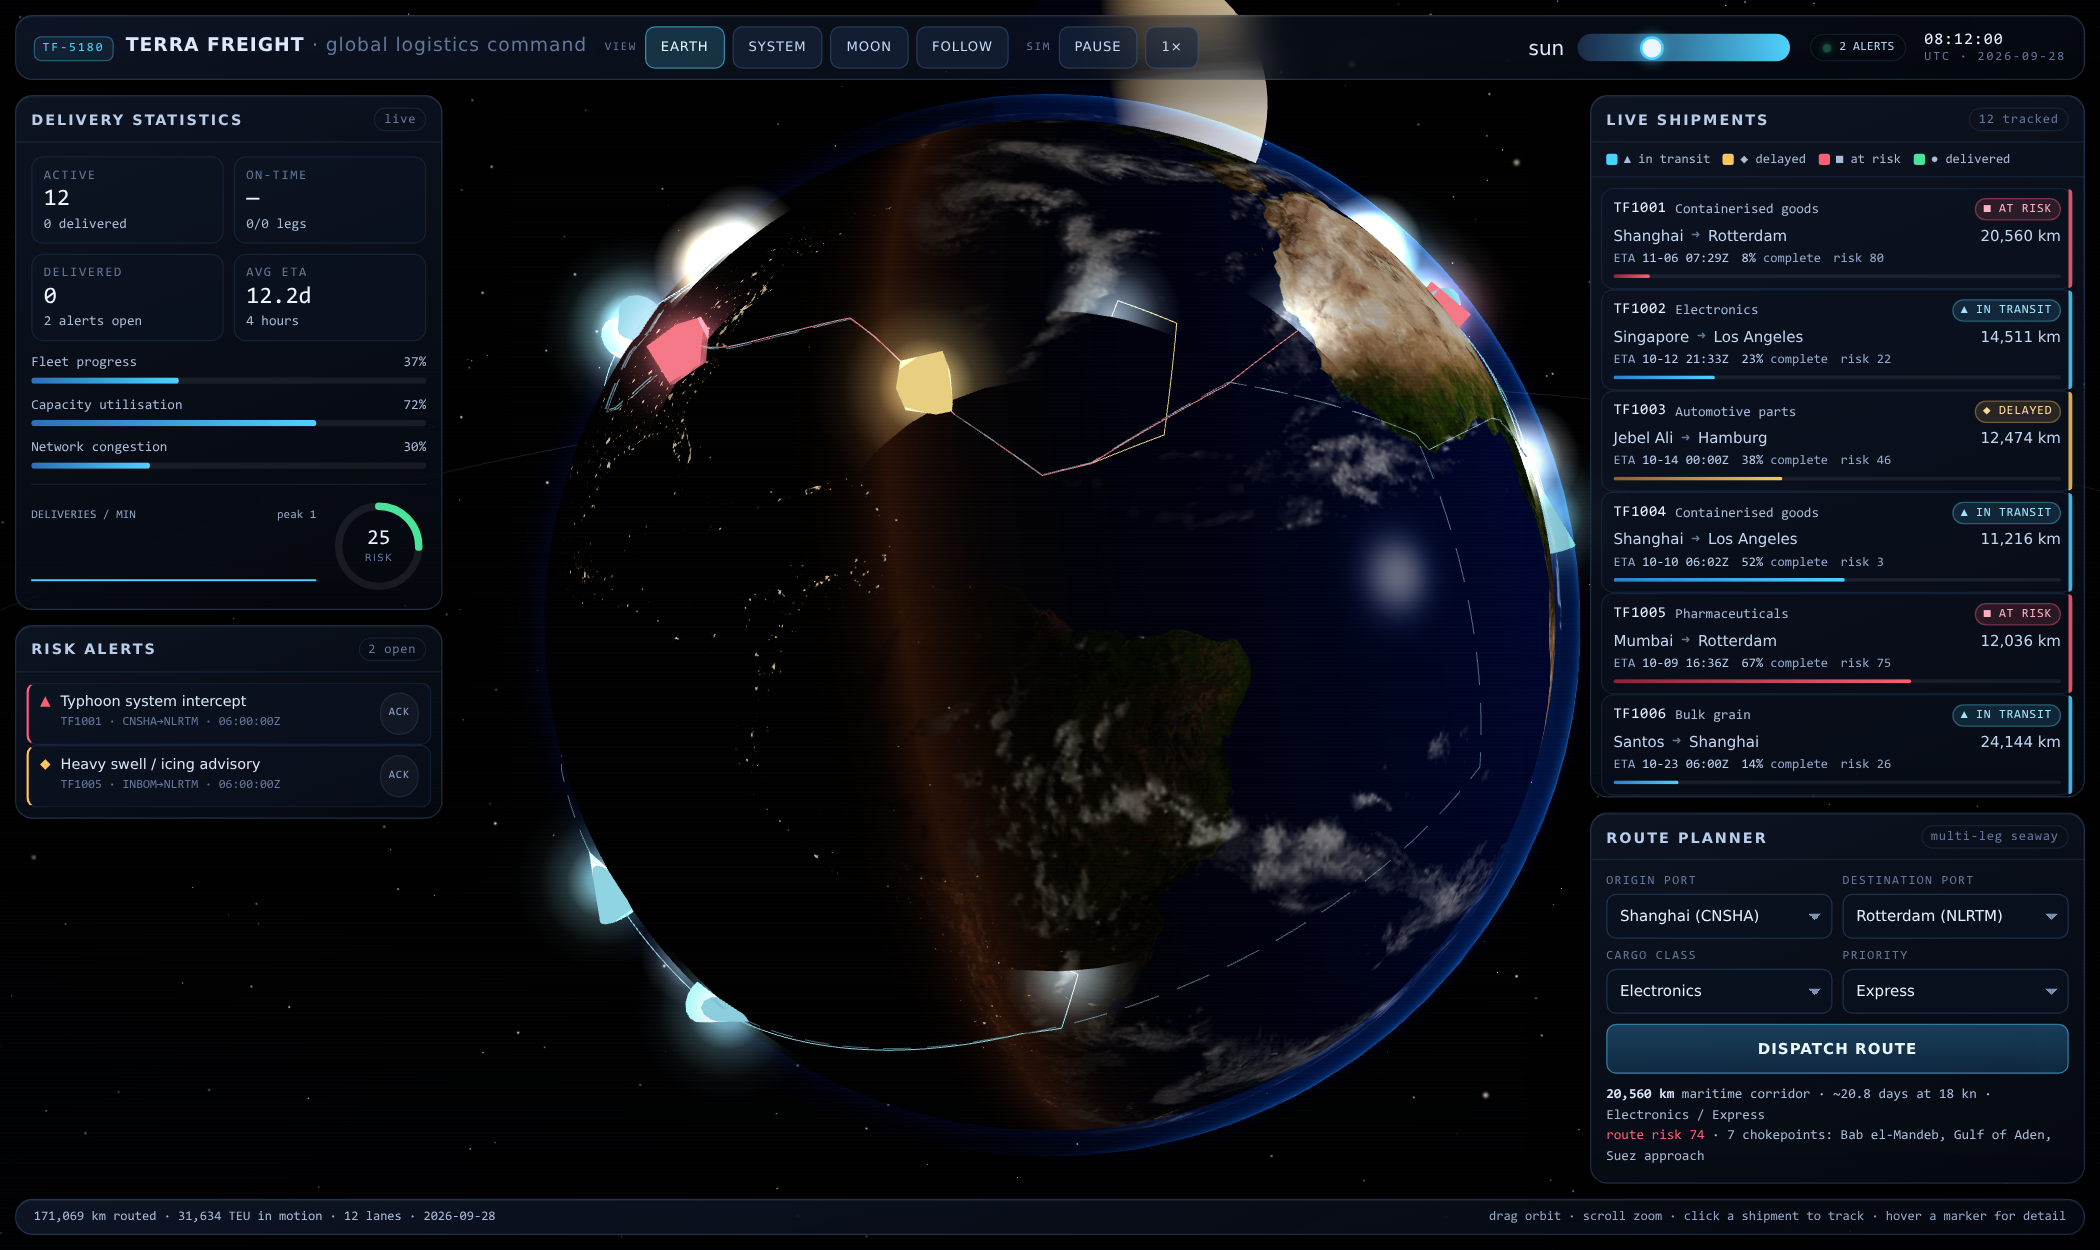
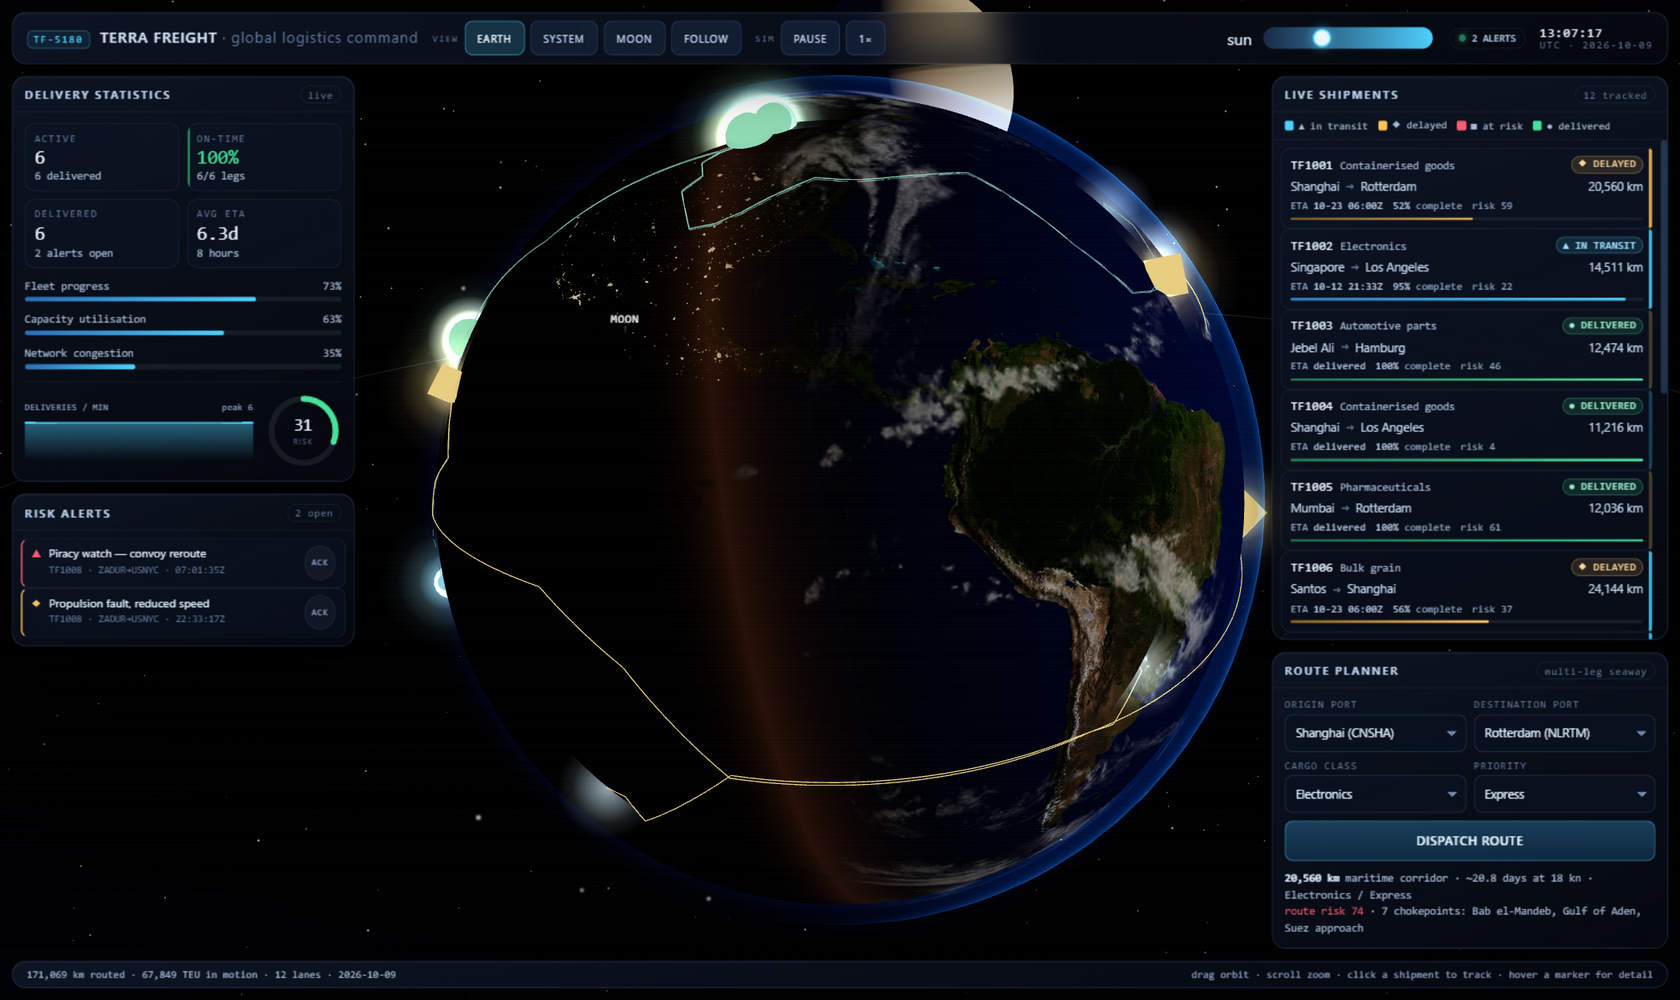
docs: refresh screenshots, add terminator + preset flythrough GIFs

diff --git a/README.md b/README.md
@@ -15,6 +15,11 @@ npm run dev        # → http://localhost:5180
 
 ![Earth view](docs/screenshots/earth.png)
 
+The sun is a single directional light and its azimuth is a live slider — drag
+it and the terminator sweeps across the planet:
+
+![Sun-azimuth sweep: the terminator and city lights rotate around the globe](docs/screenshots/terminator.gif)
+
 ---
 
 ## Contents
@@ -72,6 +77,8 @@ globe live.
 
 **Moon** (0.273 R at 2.6 R) is tidally locked on a 5.14°-inclined orbit, with
 its orbital angle driven by the simulation clock at the real 27.32-day period.
+
+![Moon view](docs/screenshots/moon.png)
 
 **Jupiter, Saturn, Mars and Neptune** sit on a stylised orrery ring around
 Earth, each with its own axial tilt and spin rate. Saturn carries an
@@ -165,6 +172,11 @@ wrapping, it sheds non-essential chrome at 1560, 1460, 1360, 1280, 1200 and
 | Pause / 1× / 2× / 4× | Simulation speed |
 | Click a row, alert or vessel | Select and fly to that shipment |
 
+The four camera presets fly the camera on eased tweens — Earth, the full
+system, the Moon, and a follow-cam locked to a vessel:
+
+![Camera preset flythrough: Earth, System, Moon, Earth](docs/screenshots/presets.gif)
+
 ## Getting started
 
 Requires **Node 18+** (Vite 5). Python 3 with Pillow is needed only for the
@@ -243,7 +255,7 @@ vite.config.js              pinned ports, polling watcher
 public/textures/            11 equirectangular maps (day, night, clouds, normal,
                             specular, moon, Jupiter, Saturn + ring, Mars, Neptune)
 tools/seaway_check.py       offline validator for the maritime corridor graph
-docs/screenshots/           renders used in this README
+docs/screenshots/           renders and demo GIFs used in this README
 AGENTS.md                   working rules and invariants for this repo
 CHANGELOG.md                the critique-and-improve loop, round by round
 ```
@@ -293,6 +305,8 @@ Built with [Three.js](https://threejs.org) (MIT) via [Vite](https://vitejs.dev).
 
 Recorded honestly rather than hidden — the full history is in
 [`CHANGELOG.md`](CHANGELOG.md).
+
+![Below 1000px the panels fold into a scrollable bottom sheet under a compact top bar](docs/screenshots/narrow.png)
 
 - **This is a simulation, not live data.** All shipments, positions, incidents
   and statistics are generated client-side. Nothing is fetched and there is no
